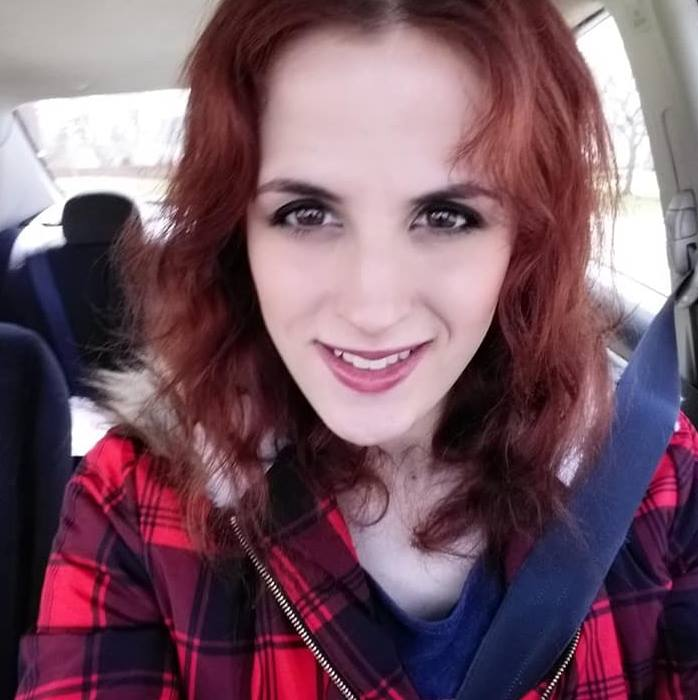
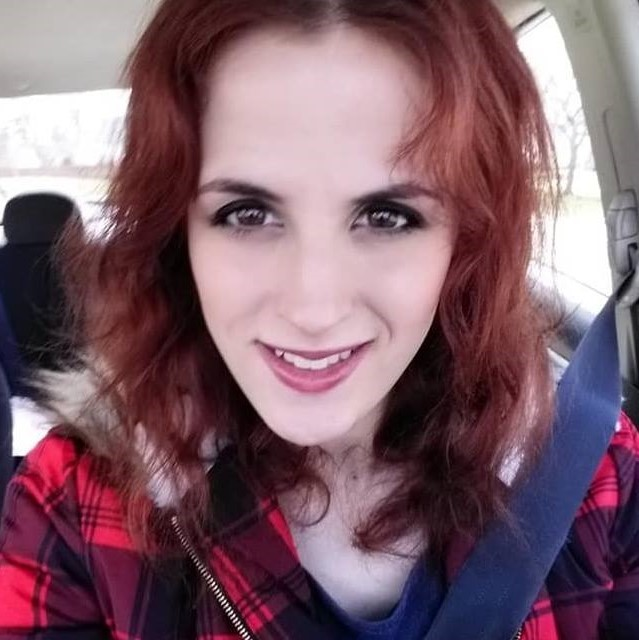
Completed the about page. Adjusted photo.

diff --git a/about.html b/about.html
@@ -48,10 +48,38 @@
                         <li id="contact" class="nav-item"><a class="nav-link" href="/contact">Contact</a></li>
                     </ul>
                 </div>
-                <!-- <div>
-                    <img id="contact-image" class="img-fluid img-thumbnail rounded-circle" alt="contact image"
+            </div>
+        </div>
+        <div id="about-section" class="container">
+            <div class="row">
+                <div class="col-12">
+                    <img id="about-image" class="img-fluid img-thumbnail rounded-circle" alt="about image"
                         src="images/selfie.jpg">
-                </div> -->
+                    <p class="about-text">
+                        Hello, my name is Harley Johnson and I am a full-stack developer and an artist. I enjoy drawing
+                        realistic portraits of people and pets. I have a boyfriend and two beloved cats named Waffles
+                        and Pancakes.
+                    </p>
+                    <p class="about-text">
+                        I have picked up
+                        quite a few coding languages over the years, including React, JavaScript, C#, Java, Python,
+                        HTML, CSS, SQL, and more. I am currently completing my bachelor's degree at Michigan State
+                        University with a major in Information Science. Once I graduate, I hope to continue my career as
+                        a full-stack or UI developer. I will have the necessary skills to work as a UX designer, an
+                        analyst, or a data scientist as well!
+                    </p>
+                    <p class="about-text">
+                        I worked as a developer at United Wholesale Mortgage for 2 1/2 years
+                        as both a back-end and UI developer. Before that, I attended a Java Coding Bootcamp with Grand
+                        Circus in Detroit, MI. My coding journey has gone back to age 11 when I first started learning
+                        HTML as well as other languages throughout middle and high school. My senior year of high
+                        school, I was awarded an award for "Most Outstanding Programmer" in a college level course.
+                    </p>
+                    <p class="about-text">
+                        Please see my contact page if you have any questions, are an employer, or have an interest in
+                        working on a project with me. Thank you for visiting my page!
+                    </p>
+                </div>
             </div>
         </div>
         <footer>

diff --git a/style.css b/style.css
@@ -23,7 +23,7 @@
 
     --accent-border: 2px dotted #04d9ff;
 
-    --title-font: "VPPixel", "OrangeKid";
+    --title-font: "VPPixel", "OrangeKid", serif;
     --main-font: 'Gill Sans', 'Gill Sans MT', Calibri, 'Trebuchet MS', sans-serif;
 
     --card-width: 20rem;
@@ -90,17 +90,11 @@ h3 {
     font-size: 30px;
 }
 
-/* .container {
-    width: 100%;
-} */
-
 #banner-section {
-    /* border: 1px solid red; */
     height: 500px;
 }
 
 #menu-area {
-    /* border: 1px solid red; */
     position: relative;
     text-align: center;
     display: flex;
@@ -137,7 +131,6 @@ h3 {
     margin-left: auto;
     margin-right: 0;
     text-align: center;
-    /* left: 0; */
     right: 0;
     z-index: 1;
     width: 350px;
@@ -152,17 +145,11 @@ h3 {
     font-size: 30px;
     top: 180px;
     left: 70px;
-    /* right: 0; */
 }
 
 #menu>li {
     height: 55px;
-    /* border: 1px solid red; */
 }
-
-/* .nav-item {
-    margin-bottom: 0;
-} */
 
 .menu-item a {
     text-decoration: none;
@@ -185,7 +172,6 @@ h3 {
 }
 
 .project-container {
-    /* border: 1px solid pink; */
     display: flex;
     justify-content: center;
     padding: var(--padding);
@@ -204,7 +190,6 @@ h3 {
 }
 
 .card-body {
-    /* border: 1px solid red; */
     margin: 1rem;
     margin-top: 0;
 }
@@ -233,7 +218,6 @@ h3 {
     background: var(--half-bg-color);
     margin-top: 20px;
     margin-bottom: 20px;
-    /* border: 1px solid red; */
 }
 
 #contact-row {
@@ -243,18 +227,11 @@ h3 {
 
 .contact-area {
     padding: 20px;
-    /* margin: 20px; */
-    /* border: var(--accent-border);
-    border-radius: var(--round-corners); */
 }
 
 #contact-info {
     font-size: 25px;
     text-shadow: var(--text-border);
-    /* display: flex;
-    flex-direction: column;
-    justify-content: center; */
-    /* border: 1px solid red; */
 }
 
 #contact-info>ul {
@@ -270,6 +247,28 @@ h3 {
 #contact-image {
     width: 150px;
 }
+
+
+#about-section {
+    margin-bottom: 20px;
+    padding: 24px;
+    background: var(--half-bg-color);
+    border-radius: var(--round-corners);
+}
+
+#about-image {
+    float: left;
+    width: 450px;
+    margin-right: 50px;
+    margin-bottom: 30px;
+}
+
+.about-text {
+    text-align: justify;
+    font-size: 25px;
+    text-shadow: var(--text-border);
+}
+
 
 footer {
     text-shadow: var(--text-border);

diff --git a/script.js b/script.js
@@ -104,10 +104,6 @@ function createProjectCard(data) {
     // append title onto card
     body.appendChild(title);
 
-    // create languages bold tag to put word 'languages'
-    // let languagesTag = document.createElement('b');
-    // languagesTag.innerText = "Languages: ";
-
     // create languages p, put in bold tag followed by languages
     let languages = document.createElement('p');
     languages.className = "card-languages card-text";
